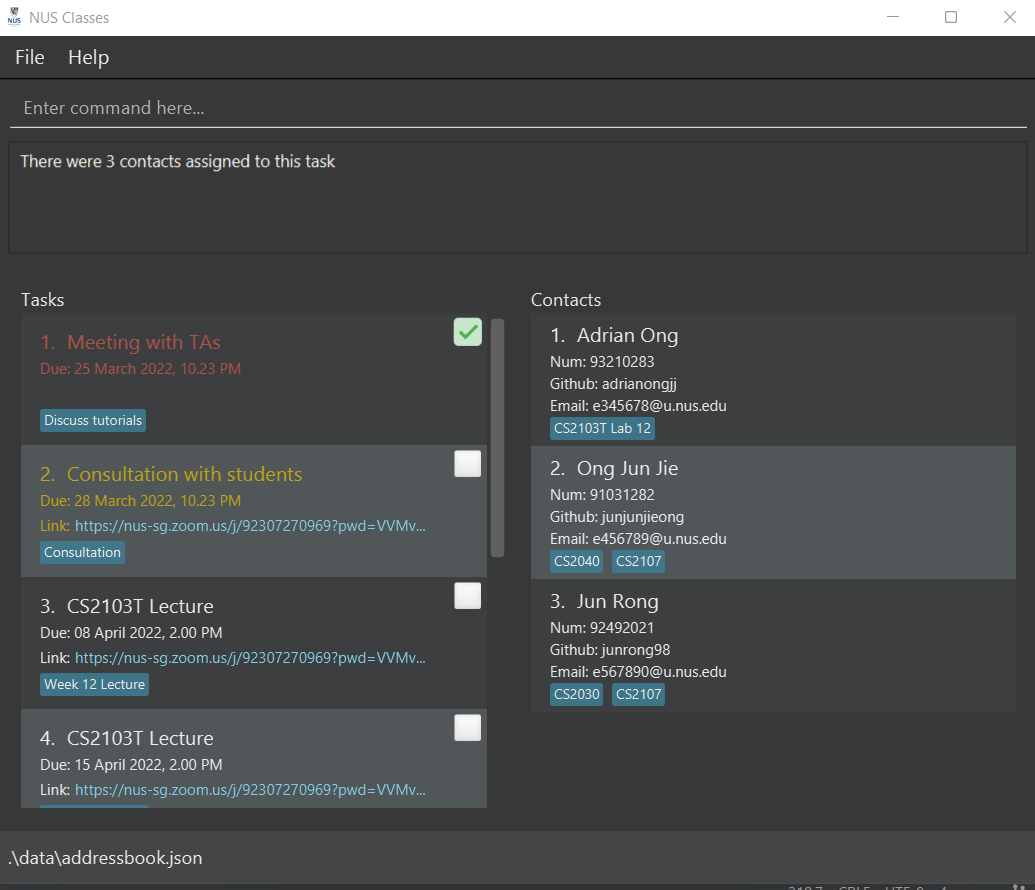
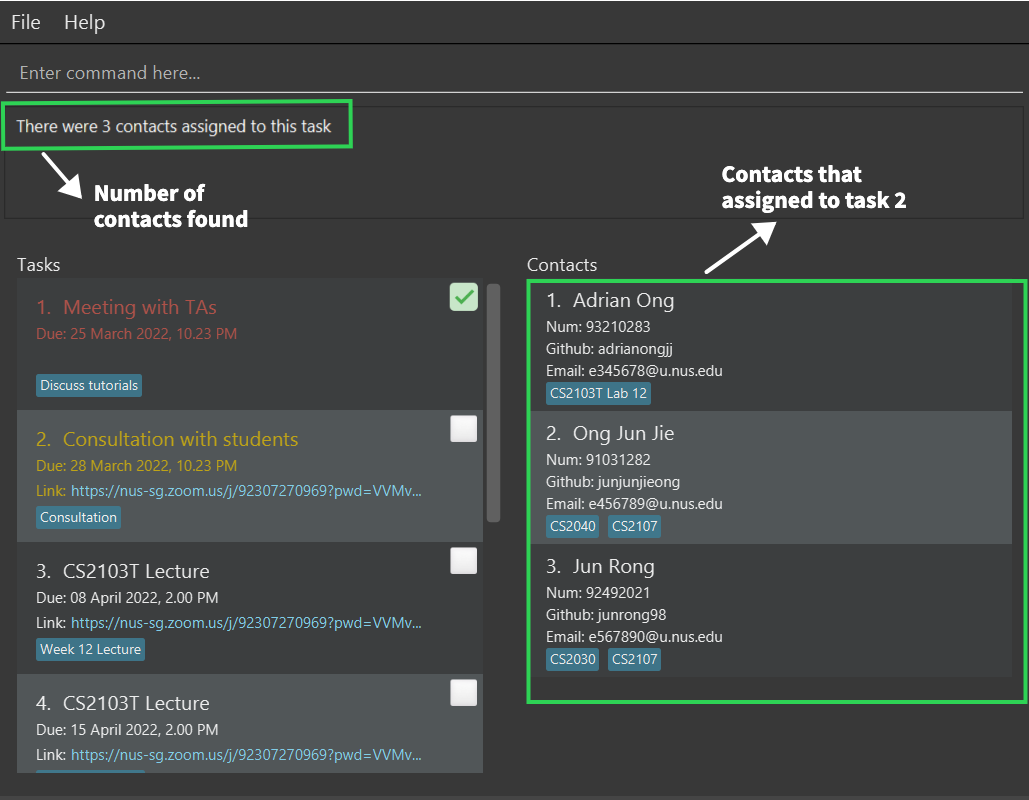
Update UG image with annotation

diff --git a/docs/UserGuide.md b/docs/UserGuide.md
@@ -399,7 +399,7 @@ Unassigns a contact in the contact list from a task.
 * `unassign 1 p/2` Unassigns the 2nd contact in the contact list from the 1st task in the task list.
 <br>
 <br>
-    ![`unassign 1 p/2](images/unassignCommandShowcase.png)
+    ![unassign 1 p/2](images/unassignCommandShowcase.png)
 
 
 ### Marking a task as done: `mark`
@@ -478,7 +478,7 @@ The index **must be a positive integer** 1, 2, 3, …
 
 
 **Examples**:
-* `listt` followed by `deletet 1` lists out all the tasks in NUS Classes, then deletes the task at index 1.
+* `listt all/` followed by `deletet 1` lists out all the tasks in NUS Classes, then deletes the task at index 1.
 * `findt lecture` followed by `deletet 2` lists out all tasks with the keyword `lecture`, then deletes the task at index 2. <br>
     <br> Finding the tasks by keyword `lecture`:
     ![`findt lecture` followed by `deletet 2`](images/deletettCommandShowcase1.png)
@@ -502,7 +502,9 @@ The index **must be a positive integer** 1, 2, 3, …
 
 
 **Examples**:
-* `gen 1` displays all the emails of the contacts assigned to the task at index 1. <br><br>
+* `gen 1` displays all the emails of the contacts assigned to the task at index 1. <br>
+  <br>
+  ![`gen 1`](images/genCommandShowcase.png)
 
 
 # Other Features
@@ -553,7 +555,11 @@ Imports a list of contacts from a .csv file.
 
 **Examples**:
 * `import fp/data/data.csv` will import all valid entries from the `data.csv` folder in the `/data` directory of the NUS Classes folder.
-* `import fp/contacts.csv` will import all valid entries from the `contacts.csv file` in the NUS Classes root folder
+* `import fp/contacts.csv` will import all valid entries from the `contacts.csv file` in the NUS Classes root folder<br>
+  <br>
+  ![`importCommand1` followed by `deletet 2`](images/importCommandShowcase1.png)
+  <br><br>
+  ![`importCommand2`](images/importCommandShowcase2.png)
 
 
 ### User-friendly date display
